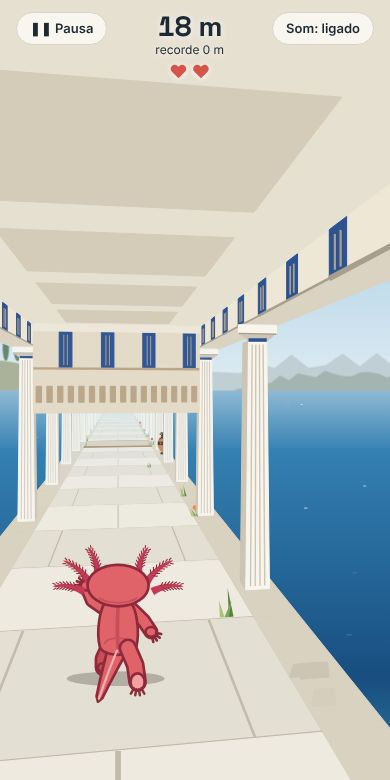
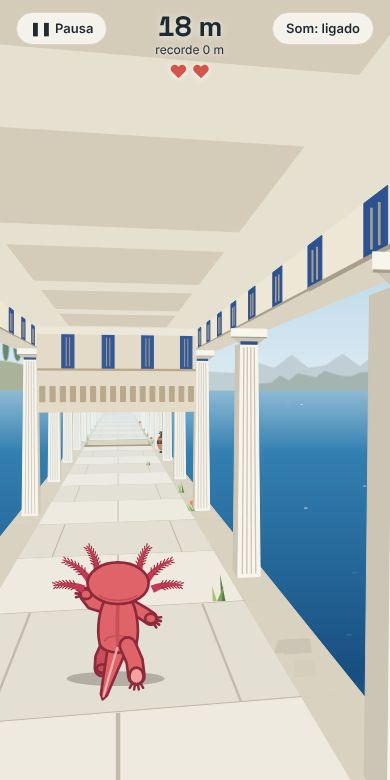
v0.46.1: Hermes sandals redone (pickup, ankle wings, subtle hole effect)

diff --git a/js/render.js b/js/render.js
@@ -498,15 +498,24 @@ export function drawTunnel(ctx, S, W, H, opts = {}) {
     ctx.restore();
     // a dark broken lip on the near edge, so gaps read from afar
     if (o.z - 0.2 > BASE) quad(P(-w, sy, o.z - 0.2), P(w, sy, o.z - 0.2), P(w, sy, o.z), P(-w, sy, o.z), fog(COL.edge, o.z));
-    // Hermes' sandals: a path of gold light over the gaps on the hero's side, so he can see they hold
+    // Hermes' sandals (v0.46.1, subtle): a thin gold glow along the gap's edges on the hero's side,
+    // and a few sparks drifting over it; the hole itself stays visible
     if (S.hermes > 0 && o.side === S.grav) {
-      const fade = S.hermes < 1.2 ? 0.5 + 0.5 * Math.sin(t * 18) : 1; // blinks as it runs out
-      const bw = HW * 0.6, ga = Math.max(o.z, BASE), gb = o.z + o.len;
+      const fade = S.hermes < 1.2 ? 0.5 + 0.5 * Math.sin(t * 18) : 1;
+      const ga = Math.max(o.z, BASE), gb = o.z + o.len;
       if (gb > ga) {
-        ctx.globalAlpha = 0.88 * fade; // nearly opaque, so the sea below doesn't turn it green
-        quad(P(-bw, sy, ga), P(bw, sy, ga), P(bw, sy, gb), P(-bw, sy, gb), rgb([250, 222, 140]));
-        ctx.globalAlpha = 0.8 * fade;
-        for (const e of [-bw, bw]) line(P(e, sy, ga), P(e, sy, gb), rgb([255, 226, 150]), lw(ga) * 1.2);
+        ctx.globalAlpha = 0.75 * fade;
+        const gl = rgb([252, 222, 140]), lwg = lw(ga) * 1.1;
+        for (const e of [-w, w]) line(P(e, sy, ga), P(e, sy, gb), gl, lwg);
+        if (o.z > BASE) line(P(-w, sy, o.z), P(w, sy, o.z), gl, lwg);
+        line(P(-w, sy, gb), P(w, sy, gb), gl, lwg);
+        for (let k = 0; k < Math.min(10, o.len * 2); k++) { // sparks rising out of the gap
+          const sz = o.z + hash(k * 7 + o.len) * o.len, sx = (hash(k * 13 + o.len) - 0.5) * 2 * w * 0.8;
+          const up = ((t * 0.6 + hash(k * 3)) % 1), sp = P(sx, sy - Math.sign(sy - HM / 2 || -1) * up * 0.4, sz);
+          if (sz <= BASE) continue;
+          ctx.globalAlpha = fade * (1 - up) * 0.9;
+          ctx.fillStyle = gl; ctx.beginPath(); ctx.arc(sp[0], sp[1], Math.max(1, 0.03 * f / (sz - CAM_Z)), 0, Math.PI * 2); ctx.fill();
+        }
         ctx.globalAlpha = 1;
       }
     }
@@ -684,38 +693,53 @@ export function drawTunnel(ctx, S, W, H, opts = {}) {
   }
 
 
-  // Hermes' winged sandal (v0.46): floats over its surface with a gold glow, wing beating.
+  // Hermes' winged sandal (v0.46; redrawn v0.46.1): a sandal seen from the side, laces crossing up
+  // to an ankle cuff, and a white wing with gold-edged feathers rising from the heel.
+  function feather(x, y, ang, len, wid, fill, edge, lwid) {
+    const c = Math.cos(ang), s = Math.sin(ang), nx = -s, ny = c;
+    ctx.beginPath();
+    ctx.moveTo(x, y);
+    ctx.quadraticCurveTo(x + c * len * 0.5 + nx * wid, y + s * len * 0.5 + ny * wid, x + c * len, y + s * len);
+    ctx.quadraticCurveTo(x + c * len * 0.5 - nx * wid * 0.6, y + s * len * 0.5 - ny * wid * 0.6, x, y);
+    ctx.fillStyle = fill; ctx.fill();
+    ctx.lineWidth = lwid; ctx.strokeStyle = edge; ctx.stroke();
+    ctx.beginPath(); ctx.moveTo(x, y); ctx.lineTo(x + c * len * 0.85, y + s * len * 0.85); ctx.lineWidth = lwid * 0.7; ctx.stroke(); // quill
+  }
   function drawSandals(b) {
     const zc = (b.z0 + b.z1) / 2;
     if (zc <= BASE + 0.3) return;
     const bob = Math.sin(t * 3 + b.z0) * 0.06;
     const y = b.side < 0 ? HEART_LIFT + bob : HM - HEART_LIFT - bob;
     const [x, yy] = P(0, y, zc);
-    const r = 0.5 * f / (zc - CAM_Z), fk = fogK(zc);
-    const glow = ctx.createRadialGradient(x, yy, r * 0.2, x, yy, r * 2.2);
-    glow.addColorStop(0, `rgba(244,196,92,${0.55 * (1 - fk)})`);
-    glow.addColorStop(1, 'rgba(244,196,92,0)');
+    const r = 0.38 * f / (zc - CAM_Z), fk = fogK(zc);
+    const glow = ctx.createRadialGradient(x, yy, r * 0.2, x, yy, r * 2.4);
+    glow.addColorStop(0, `rgba(250,214,120,${0.6 * (1 - fk)})`);
+    glow.addColorStop(1, 'rgba(250,214,120,0)');
     ctx.fillStyle = glow;
-    ctx.beginPath(); ctx.arc(x, yy, r * 2.2, 0, Math.PI * 2); ctx.fill();
+    ctx.beginPath(); ctx.arc(x, yy, r * 2.4, 0, Math.PI * 2); ctx.fill();
     ctx.save();
     ctx.translate(x, yy);
     ctx.scale(r, (b.side < 0 ? 1 : -1) * r); // upright for the hero on either surface
-    const gold = rgb(mix([244, 196, 92], COL.haze, fk)), dark = rgb(mix([150, 104, 30], COL.haze, fk)), light = rgb(mix([255, 240, 200], COL.haze, fk));
-    // the wing, beating, behind the sandal
-    const beat = Math.sin(t * 9 + b.z0) * 0.25;
-    ctx.save(); ctx.translate(-0.35, 0.05); ctx.rotate(-0.35 + beat);
-    for (let k = 0; k < 4; k++) {
-      ctx.beginPath(); ctx.ellipse(-0.15 - k * 0.1, -0.25 - k * 0.14, 0.45 - k * 0.06, 0.13, -0.5 - k * 0.15, 0, Math.PI * 2);
-      ctx.fillStyle = k % 2 ? light : gold; ctx.fill(); ctx.lineWidth = 0.05; ctx.strokeStyle = dark; ctx.stroke();
-    }
-    ctx.restore();
-    // the sandal: a sole seen from the side, straps over it
+    const gold = rgb(mix([236, 178, 64], COL.haze, fk)), dark = rgb(mix([140, 94, 26], COL.haze, fk));
+    const white = rgb(mix([255, 252, 242], COL.haze, fk)), light = rgb(mix([252, 226, 150], COL.haze, fk));
+    // the wing, rising up and back from the ankle; its feathers lift and settle
+    const beat = Math.sin(t * 8 + b.z0) * 0.12;
+    const wx = -0.5, wy = -0.3;
+    const feathers = [[-1.75, 1.35, 0.24], [-2.05, 1.3, 0.24], [-2.35, 1.15, 0.22], [-2.62, 0.95, 0.2], [-2.88, 0.72, 0.17]];
+    feathers.forEach(([a, len, wid], k) => feather(wx, wy, a - beat * (1 - k * 0.15), len, wid, k % 2 ? light : white, gold, 0.06));
+    ctx.beginPath(); ctx.ellipse(wx - 0.1, wy - 0.16, 0.3, 0.17, -0.7, 0, Math.PI * 2); // coverts over the feather roots
+    ctx.fillStyle = white; ctx.fill(); ctx.lineWidth = 0.06; ctx.strokeStyle = gold; ctx.stroke();
+    // the sandal: a filled silhouette (heel, ankle, instep, toe) with two darker straps
     ctx.beginPath();
-    ctx.moveTo(-0.75, 0.35); ctx.quadraticCurveTo(-0.85, 0.15, -0.55, 0.12);
-    ctx.lineTo(0.55, 0.12); ctx.quadraticCurveTo(0.9, 0.18, 0.8, 0.38); ctx.closePath();
-    ctx.fillStyle = gold; ctx.fill(); ctx.lineWidth = 0.08; ctx.strokeStyle = dark; ctx.stroke();
-    ctx.lineWidth = 0.1; ctx.strokeStyle = dark;
-    for (const [x0, x1] of [[-0.45, -0.1], [0, 0.35], [-0.3, 0.2]]) { ctx.beginPath(); ctx.moveTo(x0, 0.14); ctx.quadraticCurveTo((x0 + x1) / 2, -0.35, x1, 0.14); ctx.stroke(); }
+    ctx.moveTo(-0.72, 0.32);
+    ctx.lineTo(-0.68, -0.32); ctx.quadraticCurveTo(-0.48, -0.42, -0.26, -0.32); // heel up to the ankle
+    ctx.quadraticCurveTo(-0.2, -0.05, 0.12, 0.08);                              // instep
+    ctx.quadraticCurveTo(0.7, 0.14, 0.88, 0.3);                                 // toe
+    ctx.closePath();
+    ctx.fillStyle = gold; ctx.fill(); ctx.lineWidth = 0.06; ctx.strokeStyle = dark; ctx.stroke();
+    ctx.lineWidth = 0.07; ctx.strokeStyle = dark; ctx.lineCap = 'round';
+    for (const [ax, ay, bx2, by2] of [[-0.66, -0.12, -0.24, -0.16], [-0.05, 0.03, 0.12, 0.3]]) { ctx.beginPath(); ctx.moveTo(ax, ay); ctx.lineTo(bx2, by2); ctx.stroke(); }
+    ctx.beginPath(); ctx.moveTo(-0.76, 0.32); ctx.lineTo(0.92, 0.32); ctx.lineWidth = 0.1; ctx.stroke(); // sole
     ctx.restore();
   }
 

diff --git a/js/hero.js b/js/hero.js
@@ -166,19 +166,24 @@ function drawSlide(ctx, phase) {
   }
 }
 
-// Hermes' sandals (v0.46): a small gold wing at the ankle, beating; `alpha` blinks as it runs out.
+// Hermes' sandals (v0.46; redrawn v0.46.1): a small white wing at the ankle, three pointed
+// feathers with gold edges spreading out and up, fluttering; `alpha` blinks as it runs out.
 function wing(ctx, x, y, side, alpha, phase) {
   ctx.save();
   ctx.globalAlpha = alpha;
-  ctx.translate(x + side * 0.05, y);
-  ctx.rotate(side * (0.6 + Math.sin(phase * 3) * 0.25));
-  for (let k = 0; k < 3; k++) {
+  ctx.translate(x + side * 0.04, y - 0.02);
+  const flap = Math.sin(phase * 3) * 0.18;
+  [[0.2, -0.55], [0.17, -0.9], [0.13, -1.2]].forEach(([len, a], k) => {
+    const ang = side > 0 ? a + flap : Math.PI - a - flap;
+    const c = Math.cos(ang), s = Math.sin(ang), nx = -s, ny = c, wd = 0.032;
     ctx.beginPath();
-    ctx.ellipse(side * (0.07 + k * 0.04), -0.04 - k * 0.035, 0.1 - k * 0.015, 0.03, side * (0.2 + k * 0.25), 0, Math.PI * 2);
-    ctx.fillStyle = k % 2 ? '#fff0c8' : '#f4c45c';
+    ctx.moveTo(0, 0);
+    ctx.quadraticCurveTo(c * len * 0.5 + nx * wd * side, s * len * 0.5 + ny * wd * side, c * len, s * len);
+    ctx.quadraticCurveTo(c * len * 0.5 - nx * wd * 0.5 * side, s * len * 0.5 - ny * wd * 0.5 * side, 0, 0);
+    ctx.fillStyle = k === 1 ? '#fbe6a6' : '#fffcf2';
     ctx.fill();
-    ctx.strokeStyle = '#96681e'; ctx.lineWidth = 0.008; ctx.stroke();
-  }
+    ctx.strokeStyle = '#c9902a'; ctx.lineWidth = 0.008; ctx.stroke();
+  });
   ctx.restore();
 }
 

diff --git a/js/version.js b/js/version.js
@@ -1,3 +1,3 @@
 // The app's version: the only place to change it on a release.
 // A classic script (not a module) so both the page and the service worker (importScripts) can read it.
-self.APP_VERSION = '0.46';
+self.APP_VERSION = '0.46.1';

diff --git a/CLAUDE.md b/CLAUDE.md
@@ -22,7 +22,7 @@ Browser endless runner (pseudo-3D tunnel), shipped as a PWA on GitHub Pages from
 
 - The world is ruins of ancient Greece. The gods bless the axolotl from time to time, helping him find something or reach somewhere (the story is still open). The inverted gravity is itself such a blessing: the gravity is his, not the world's.
 - Gold is the sign of anything divine. v0.30: while inverted, his gills turn gold with a soft halo behind the head, gold sparks burst on every flip, and gold motes drift off him toward the roof; falling through the roof reads "Caiu no céu". Future boosters are meant to be gifts of the gods (Hermes' sandals, something of Zeus…) and should reuse this gold language.
-- First booster, Hermes' winged sandals (v0.46, user request): `type: 'sandals'` floats like the golden heart (same lift, taken by touch even while protected), from `HERMES_FROM` 250 m, `HERMES_CHANCE` 0.06 per regular obstacle (about one every 800 m), never while active or on its way, never on the same spawn as a heart. Taking it sets `S.hermes` = `HERMES_TIME` 6 s: holes and missing surfaces on the hero's side hold him (no slip); the sim emits `boost` and, when it runs out, `boostEnd`. Look: a gold winged sandal pickup (`drawSandals()`), a nearly opaque gold path of light over the gaps on the hero's side, small gold wings at his ankles (`wing()` in hero.js), both blinking in the last 1.2 s; HUD "Hermes" with a gold countdown bar under the hearts (hidden on death); pop "Sandálias de Hermes: ande sobre os buracos"; lyre run up the strings and two falling notes at the end; stats count it in `boosts.hermes`; menu legend entry. Tested in tests/sim.test.js (holds over a hole, slips again after it ends).
+- First booster, Hermes' winged sandals (v0.46, user request): `type: 'sandals'` floats like the golden heart (same lift, taken by touch even while protected), from `HERMES_FROM` 250 m, `HERMES_CHANCE` 0.06 per regular obstacle (about one every 800 m), never while active or on its way, never on the same spawn as a heart. Taking it sets `S.hermes` = `HERMES_TIME` 6 s: holes and missing surfaces on the hero's side hold him (no slip); the sim emits `boost` and, when it runs out, `boostEnd`. Look (v0.46.1, user: the first look was "péssimo"; redone: pickup and ankle wings, subtle hole effect): the pickup (`drawSandals()`) is a gold sandal in profile with dark straps and sole and a white wing of five gold-edged feathers rising from the ankle, flapping, in a soft glow; over the gaps on the hero's side only thin gold lines along the hole edges and a few rising gold sparks (the v0.46 solid gold path was rejected); at his ankles three white gold-edged feathers per side, flapping (`wing()` in hero.js); effect and wings blink in the last 1.2 s; HUD "Hermes" with a gold countdown bar under the hearts (hidden on death); pop "Sandálias de Hermes: ande sobre os buracos"; lyre run up the strings and two falling notes at the end; stats count it in `boosts.hermes`; menu legend entry. Tested in tests/sim.test.js (holds over a hole, slips again after it ends).
 - Open ideas (not decided, recorded in the project plan doc): Zeus is against him (toppling columns and dropping blocks as his wrath, electric white-blue as his colour, opposite the allies' gold); boosters from Hermes (winged sandals: speed or double jump), Athena (aegis: absorbs one hit), Apollo (golden lyre: short slow motion), Poseidon (rescue from a fall), Hera or Iris (rainbow: shows obstacles ahead). Story told only through a line in the menu or at the end of a run, and the god's name when a booster is taken.
 - Future stretch / challenge idea (user, v0.35, not now): a stretch with neither floor nor roof, where the hero must keep flipping in mid-air to stay between them until a surface returns (falling out of either side ends it). Notes for then: today flips only work from a jump or the hole grace, so it needs a free mid-air flip (with a cooldown or a limit so it stays a skill); the v0.33 grace already lets players juggle flip/slip across two voids, which this stretch would replace with a deliberate rule; the solver tests would need it too.
 
